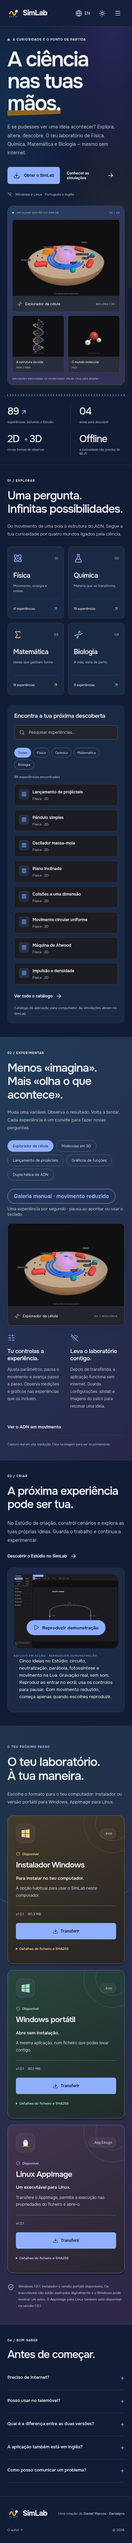
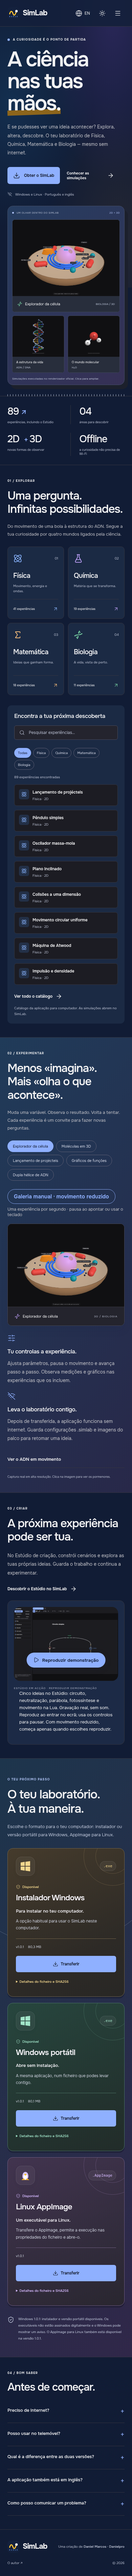
Reflow tablet and narrow mobile layouts and preserve review artifacts

diff --git a/dist/assets/index-CXP6DMzO.css b/dist/assets/index-CXP6DMzO.css
@@ -1,0 +1,1 @@
+@font-face{font-family:Onest Variable;font-style:normal;font-display:swap;font-weight:100 900;src:url(/assets/onest-cyrillic-ext-wght-normal-DOFToQv1.woff2)format("woff2-variations");unicode-range:U+460-52F,U+1C80-1C8A,U+20B4,U+2DE0-2DFF,U+A640-A69F,U+FE2E-FE2F}@font-face{font-family:Onest Variable;font-style:normal;font-display:swap;font-weight:100 900;src:url(/assets/onest-cyrillic-wght-normal-DayYxulF.woff2)format("woff2-variations");unicode-range:U+301,U+400-45F,U+490-491,U+4B0-4B1,U+2116}@font-face{font-family:Onest Variable;font-style:normal;font-display:swap;font-weight:100 900;src:url(/assets/onest-math-wght-normal-Bl4ZGkZl.woff2)format("woff2-variations");unicode-range:U+302-303,U+305,U+307-308,U+310,U+312,U+315,U+31A,U+326-327,U+32C,U+32F-330,U+332-333,U+338,U+33A,U+346,U+34D,U+391-3A1,U+3A3-3A9,U+3B1-3C9,U+3D1,U+3D5-3D6,U+3F0-3F1,U+3F4-3F5,U+2016-2017,U+2034-2038,U+203C,U+2040,U+2043,U+2047,U+2050,U+2057,U+205F,U+2070-2071,U+2074-208E,U+2090-209C,U+20D0-20DC,U+20E1,U+20E5-20EF,U+2100-2112,U+2114-2115,U+2117-2121,U+2123-214F,U+2190,U+2192,U+2194-21AE,U+21B0-21E5,U+21F1-21F2,U+21F4-2211,U+2213-2214,U+2216-22FF,U+2308-230B,U+2310,U+2319,U+231C-2321,U+2336-237A,U+237C,U+2395,U+239B-23B7,U+23D0,U+23DC-23E1,U+2474-2475,U+25AF,U+25B3,U+25B7,U+25BD,U+25C1,U+25CA,U+25CC,U+25FB,U+266D-266F,U+27C0-27FF,U+2900-2AFF,U+2B0E-2B11,U+2B30-2B4C,U+2BFE,U+3030,U+FF5B,U+FF5D,U+1D400-1D7FF,U+1EE??}@font-face{font-family:Onest Variable;font-style:normal;font-display:swap;font-weight:100 900;src:url(/assets/onest-symbols-wght-normal-DxQzqQfC.woff2)format("woff2-variations");unicode-range:U+1-C,U+E-1F,U+7F-9F,U+20DD-20E0,U+20E2-20E4,U+2150-218F,U+2190,U+2192,U+2194-2199,U+21AF,U+21E6-21F0,U+21F3,U+2218-2219,U+2299,U+22C4-22C6,U+2300-243F,U+2440-244A,U+2460-24FF,U+25A0-27BF,U+28??,U+2921-2922,U+2981,U+29BF,U+29EB,U+2B??,U+4DC0-4DFF,U+FFF9-FFFB,U+10140-1018E,U+10190-1019C,U+101A0,U+101D0-101FD,U+102E0-102FB,U+10E60-10E7E,U+1D2C0-1D2D3,U+1D2E0-1D37F,U+1F0??,U+1F100-1F1AD,U+1F1E6-1F1FF,U+1F30D-1F30F,U+1F315,U+1F31C,U+1F31E,U+1F320-1F32C,U+1F336,U+1F378,U+1F37D,U+1F382,U+1F393-1F39F,U+1F3A7-1F3A8,U+1F3AC-1F3AF,U+1F3C2,U+1F3C4-1F3C6,U+1F3CA-1F3CE,U+1F3D4-1F3E0,U+1F3ED,U+1F3F1-1F3F3,U+1F3F5-1F3F7,U+1F408,U+1F415,U+1F41F,U+1F426,U+1F43F,U+1F441-1F442,U+1F444,U+1F446-1F449,U+1F44C-1F44E,U+1F453,U+1F46A,U+1F47D,U+1F4A3,U+1F4B0,U+1F4B3,U+1F4B9,U+1F4BB,U+1F4BF,U+1F4C8-1F4CB,U+1F4D6,U+1F4DA,U+1F4DF,U+1F4E3-1F4E6,U+1F4EA-1F4ED,U+1F4F7,U+1F4F9-1F4FB,U+1F4FD-1F4FE,U+1F503,U+1F507-1F50B,U+1F50D,U+1F512-1F513,U+1F53E-1F54A,U+1F54F-1F5FA,U+1F610,U+1F650-1F67F,U+1F687,U+1F68D,U+1F691,U+1F694,U+1F698,U+1F6AD,U+1F6B2,U+1F6B9-1F6BA,U+1F6BC,U+1F6C6-1F6CF,U+1F6D3-1F6D7,U+1F6E0-1F6EA,U+1F6F0-1F6F3,U+1F6F7-1F6FC,U+1F7??,U+1F800-1F80B,U+1F810-1F847,U+1F850-1F859,U+1F860-1F887,U+1F890-1F8AD,U+1F8B0-1F8BB,U+1F8C0-1F8C1,U+1F900-1F90B,U+1F93B,U+1F946,U+1F984,U+1F996,U+1F9E9,U+1FA00-1FA6F,U+1FA70-1FA7C,U+1FA80-1FA89,U+1FA8F-1FAC6,U+1FACE-1FADC,U+1FADF-1FAE9,U+1FAF0-1FAF8,U+1FB??}@font-face{font-family:Onest Variable;font-style:normal;font-display:swap;font-weight:100 900;src:url(/assets/onest-vietnamese-wght-normal-BBxOatbv.woff2)format("woff2-variations");unicode-range:U+102-103,U+110-111,U+128-129,U+168-169,U+1A0-1A1,U+1AF-1B0,U+300-301,U+303-304,U+308-309,U+323,U+329,U+1EA0-1EF9,U+20AB}@font-face{font-family:Onest Variable;font-style:normal;font-display:swap;font-weight:100 900;src:url(/assets/onest-latin-ext-wght-normal-QAhDxQuo.woff2)format("woff2-variations");unicode-range:U+100-2BA,U+2BD-2C5,U+2C7-2CC,U+2CE-2D7,U+2DD-2FF,U+304,U+308,U+329,U+1D00-1DBF,U+1E00-1E9F,U+1EF2-1EFF,U+2020,U+20A0-20AB,U+20AD-20C0,U+2113,U+2C60-2C7F,U+A720-A7FF}@font-face{font-family:Onest Variable;font-style:normal;font-display:swap;font-weight:100 900;src:url(/assets/onest-latin-wght-normal-Dun_Rd-l.woff2)format("woff2-variations");unicode-range:U+??,U+131,U+152-153,U+2BB-2BC,U+2C6,U+2DA,U+2DC,U+304,U+308,U+329,U+2000-206F,U+20AC,U+2122,U+2191,U+2193,U+2212,U+2215,U+FEFF,U+FFFD}:root{color:#14213d;font-synthesis:none;--ink:#14213d;--muted:#46557a;--blue:#2347c9;--line:#d9e0ee;--sun:#ffc533;background:#f5f7fc;font-family:Onest Variable,Segoe UI,sans-serif}*{box-sizing:border-box}html{scroll-behavior:smooth;scroll-padding-top:110px}body{margin:0}a{color:inherit;text-decoration:none}button,input{font:inherit}button{cursor:pointer}button,a,input,summary{-webkit-tap-highlight-color:transparent}button{color:inherit}button:focus-visible,a:focus-visible,input:focus-visible,summary:focus-visible{outline-offset:5px;outline:3px solid #8250df}button:disabled{cursor:default}svg{stroke-width:1.7px;flex-shrink:0;width:20px;height:20px}img{max-width:100%;display:block}h1,h2,h3,h4,p,figure{margin:0}.wrap{max-width:1280px;margin:auto;padding-left:48px;padding-right:48px}.skip{z-index:100;background:#fff;padding:15px;position:fixed;top:-100px;left:20px}.skip:focus{top:10px}header{border-bottom:1px solid var(--line);z-index:5;justify-content:space-between;align-items:center;gap:24px;max-width:1440px;height:92px;margin:auto;padding:0 48px;display:flex;position:relative}.brand{align-items:center;gap:10px;display:flex}.brand>span{letter-spacing:-1px;font-size:25px;font-weight:720;line-height:1.05}.brand small{letter-spacing:3px;margin-top:5px;font-size:9px;font-weight:550;display:block}nav{gap:32px;font-size:13px;font-weight:550;display:flex}nav a:hover,.text-link:hover{color:var(--blue)}.header-actions{align-items:center;gap:25px;display:flex}.language,.menu{background:0 0;border:0;align-items:center;gap:7px;padding:10px;font-size:12px;display:flex}.menu{display:none}.button{background:var(--blue);color:#fff;border-radius:7px;justify-content:center;align-items:center;gap:12px;padding:17px 22px;font-size:14px;font-weight:600;transition:transform .2s,background .2s;display:inline-flex}.button:hover{background:#1b3aa8;transform:translateY(-2px)}.button.small{padding:12px 16px;font-size:12px}.hero{grid-template-columns:1.05fr 1fr;align-items:center;gap:48px;padding-top:78px;padding-bottom:78px;display:grid}.eyebrow{letter-spacing:1.7px;align-items:center;gap:9px;font-size:10px;font-weight:650;display:flex}.dot{background:var(--blue);border-radius:50%;width:7px;height:7px}h1{letter-spacing:-4px;margin:24px 0;font-size:clamp(50px,5.6vw,80px);font-weight:600;line-height:1.04}h1 span{z-index:0;white-space:nowrap;position:relative}h1 span:after{content:"";z-index:-1;background:var(--sun);height:15px;position:absolute;bottom:6px;left:0;right:0;transform:rotate(-2deg)}.hero-copy>p{color:var(--muted);max-width:450px;font-size:16px;line-height:1.8}.hero-buttons{align-items:center;gap:24px;margin-top:29px;display:flex}.text-link{background:0 0;border:0;align-items:center;gap:9px;padding:0;font-size:12px;font-weight:650;display:inline-flex}.hero-note{color:#5a6889;align-items:center;gap:9px;margin-top:20px;font-size:11px;display:flex}.hero-note svg{width:14px}.science-art{isolation:isolate;background-color:#e8eefb;background-image:linear-gradient(#d9e2f5 1px,#0000 1px),linear-gradient(90deg,#d9e2f5 1px,#0000 1px);background-size:26px 26px;border:1px solid #cad5ed;border-radius:18px;height:440px;position:relative;overflow:hidden;box-shadow:12px 14px #edf1f8}.art-label,.art-footer{letter-spacing:1px;justify-content:space-between;align-items:center;font-size:9px;font-weight:600;display:flex;position:absolute;left:24px;right:24px}.art-label{top:22px}.art-footer{bottom:22px}.art-footer>span:last-child{font-size:26px}.nucleus{z-index:2;background:#14213d;border-radius:50%;place-items:center;width:86px;height:86px;display:grid;position:absolute;top:44%;left:50%;transform:translate(-50%,-50%);box-shadow:0 8px 35px #14213d22}.nucleus svg{color:var(--sun);width:44px;height:44px}.orbit{border:1px solid #6285d8;border-radius:50%;width:330px;height:140px;position:absolute;top:44%;left:50%;transform:translate(-50%,-50%)rotate(-30deg)}.orbit-two{border-color:#97a9d8;width:280px;height:170px;transform:translate(-50%,-50%)rotate(48deg)}.particle{border-radius:50%;width:22px;height:22px;animation:5s ease-in-out infinite float;position:absolute;box-shadow:0 5px 12px #14213d22}.p1{background:#2347c9;top:25%;left:75%}.p2{background:#ffc533;width:30px;height:30px;animation-delay:-2s;top:58%;left:25%}.p3{background:#8250df;width:14px;height:14px;animation-delay:-3s;top:23%;left:28%}.formula{color:#46557a;font-size:12px;position:absolute}.f1{top:15%;left:10%;transform:rotate(-8deg)}.f2{bottom:22%;right:10%;transform:rotate(6deg)}.wave{opacity:.55;width:100%;height:115px;position:absolute;bottom:30px;left:0;overflow:visible}.wave path{stroke:#2347c9;fill:none;stroke-width:1.3px;stroke-dasharray:700;animation:10s linear infinite wave}.stats{border-top:1px solid var(--line);border-bottom:1px solid var(--line);grid-template-columns:repeat(4,1fr);padding-top:27px;padding-bottom:32px;display:grid;position:relative}.stats:before{content:"";background:repeating-linear-gradient(90deg,#b9c4da 0 1px,#0000 1px 8px);height:6px;position:absolute;top:-6px;left:48px;right:48px}.stats>div{border-left:1px solid var(--line);padding-left:26px}.stats>div:first-child{border:0;padding-left:0}.stats strong{letter-spacing:-1.3px;font-size:32px;font-weight:500}.stats strong span{color:var(--blue);margin-left:7px;font-size:23px}.stats p{color:var(--muted);margin-top:7px;font-size:10px}.section{padding-top:100px;padding-bottom:100px}.section-top{justify-content:space-between;align-items:flex-end;gap:40px;margin-bottom:40px;display:flex}h2{letter-spacing:-1.8px;margin-top:18px;font-size:clamp(30px,3.25vw,46px);font-weight:550;line-height:1.15}.section-top>p{max-width:340px;color:var(--muted);font-size:14px;line-height:1.8}.subject-grid{grid-template-columns:repeat(4,1fr);gap:16px;display:grid}.physics{--cat:#2f6fed;--soft:#e3ecfe}.chemistry{--cat:#8250df;--soft:#efe7fd}.maths{--cat:#b45c00;--soft:#fdeeda}.biology{--cat:#087a42;--soft:#def5e9}.subject{border:1px solid var(--line);text-align:left;background:#fff;border-radius:10px;padding:24px;transition:transform .2s,box-shadow .2s}.subject:hover{border-color:var(--cat);transform:translateY(-6px);box-shadow:0 14px 25px #14213d0c}.subject-top{color:var(--cat);justify-content:space-between;align-items:center;display:flex}.subject-top>svg{width:32px;height:32px}.subject-top>span{color:#5a6889;font-size:10px}.subject h3{letter-spacing:-.6px;margin:30px 0 10px;font-size:22px;font-weight:550}.subject p{color:var(--muted);min-height:33px;font-size:11px;line-height:1.5}.subject-bottom{border-top:1px solid var(--line);justify-content:space-between;align-items:center;margin-top:20px;padding-top:18px;font-size:10px;display:flex}.subject-bottom svg{width:16px;color:var(--cat)}.catalogue{background:#edf1f8;border-radius:12px;margin-top:45px;padding:30px}.catalogue-head{justify-content:space-between;align-items:center;gap:20px;display:flex}.catalogue-head h3{letter-spacing:-.4px;font-size:17px;font-weight:550}.search{border:1px solid var(--line);background:#fff;border-radius:6px;align-items:center;gap:10px;min-width:280px;padding:10px 14px;display:flex}.search svg{color:#5a6889;width:16px}.search input{width:100%;min-width:0;color:var(--ink);background:0 0;border:0;font-size:12px}.filters{flex-wrap:wrap;gap:8px;margin:24px 0 15px;display:flex}.filters button{background:0 0;border:1px solid #b9c4da;border-radius:30px;padding:8px 15px;font-size:11px}.filters button[aria-pressed=true]{color:#fff;background:#14213d;border-color:#14213d}#result-count{color:#46557a;margin-bottom:15px;font-size:10px}#results{grid-template-columns:repeat(4,1fr);gap:12px;display:grid}.result{border:1px solid var(--line);background:#fff;border-radius:7px;align-items:flex-start;gap:10px;padding:15px 12px;display:flex}.result-icon{background:var(--soft);width:30px;height:30px;color:var(--cat);border-radius:6px;flex-shrink:0;place-items:center;display:grid}.result-icon svg{width:16px}.result h4{font-size:11px;font-weight:600;line-height:1.5}.result p{color:#5a6889;margin-top:4px;font-size:9px}.result p span{white-space:nowrap}#show-all{margin-top:24px}#show-all[hidden]{display:none}.catalogue-note{color:#5a6889;margin-top:16px;font-size:10px}.empty{grid-column:1/-1;padding:25px;font-size:14px}.experience{border-top:1px solid var(--line);border-bottom:1px solid var(--line);background:#e8edf6;padding:85px 0}.preview-grid{grid-template-columns:1.4fr 1fr;align-items:center;gap:60px;display:grid}.preview-main{background:#f7f9fc;border:1px solid #b9c4da;border-radius:12px;overflow:hidden;transform:rotate(-1deg);box-shadow:0 15px 25px #14213d10}.preview-main>img{object-fit:contain;image-rendering:auto;width:100%;height:320px}.preview-main figcaption{border-top:1px solid var(--line);background:#fff;justify-content:space-between;align-items:center;padding:17px 20px;font-size:11px;display:flex}.preview-main figcaption span:first-child{align-items:center;gap:8px;display:flex}.preview-main figcaption span:last-child{color:#5a6889;letter-spacing:1px;font-size:8px}.preview-main svg{color:#8250df;width:16px}.experience-features article+article{border-top:1px solid #cad3e4;margin-top:30px;padding-top:30px}.experience-features article>svg{color:var(--blue);width:24px;height:24px}.experience-features h3{letter-spacing:-.4px;margin:12px 0;font-size:19px;font-weight:550}.experience-features p{color:var(--muted);font-size:13px;line-height:1.8}.image-note{color:#5a6889;margin-top:20px;font-size:9px}.studio{grid-template-columns:1fr 1fr;align-items:center;gap:70px;display:grid}.studio>div>p{max-width:400px;color:var(--muted);margin-top:24px;font-size:14px;line-height:1.8}.studio .text-link{margin-top:24px}.studio figure{border:1px solid var(--line);background:#fff;border-radius:14px;padding:18px}.studio img{object-fit:contain;background:#f7f9fc;border-radius:6px;width:100%;height:280px}.studio figcaption{letter-spacing:1px;color:var(--muted);margin-top:16px;font-size:8px}.download-section{color:#fff;background:#14213d;position:relative;overflow:hidden}.download-section:before{content:"";pointer-events:none;border:1px solid #ffffff0d;border-radius:50%;width:700px;height:700px;position:absolute;top:-150px;left:-180px}.download-inner{grid-template-columns:1fr 1fr;gap:80px;padding-top:75px;padding-bottom:75px;display:grid;position:relative}.download-section h2{font-size:44px}.download-section p{color:#c6cfe1;margin-top:20px;font-size:12px;line-height:1.8}.release-note{color:#a9b8d5;margin-top:32px;font-size:10px;line-height:1.8}.download-card{background:var(--sun);color:#14213d;border-radius:8px;justify-content:space-between;align-items:center;padding:21px;transition:transform .2s;display:flex}.download-card:hover{transform:translate(4px)}.download-card>span{grid-template-columns:24px 1fr;gap:7px 10px;display:grid}.download-card strong{font-size:14px;font-weight:600}.download-card small{grid-column:2;font-size:10px}.download-card.secondary{color:#fff;background:#24334f;border:1px solid #4d5d79;margin-top:13px}.download-options p{font-size:10px}.download-options .text-link{color:#e3eaff;margin-top:14px;font-size:10px}.faq{grid-template-columns:.8fr 1.2fr;gap:70px;display:grid}.faq h2{font-size:36px}details{border-bottom:1px solid var(--line)}summary{cursor:pointer;justify-content:space-between;gap:20px;padding:22px 0;font-size:14px;font-weight:550;list-style:none;display:flex}summary::-webkit-details-marker{display:none}summary span{color:var(--blue);font-size:23px;font-weight:350;line-height:1}details[open] summary span{transform:rotate(45deg)}details p{color:var(--muted);padding-bottom:24px;font-size:13px;line-height:1.8}details p a{text-decoration:underline}footer{border-top:1px solid var(--line);justify-content:space-between;align-items:center;gap:24px;padding-top:32px;padding-bottom:32px;display:flex}footer p,footer>a:not(.brand),footer>span{color:var(--muted);font-size:10px}footer p a{font-weight:600}footer .brand>span{font-size:22px}@keyframes float{50%{transform:translate(9px,-13px)}}@keyframes wave{50%{transform:translate(-20px)}}@media (width>=1500px){header{max-width:1280px}}@media (width<=1050px){.wrap{padding-left:32px;padding-right:32px}header{padding:0 32px}.hero{gap:30px}.hero-buttons{flex-direction:column;align-items:flex-start;gap:15px}.science-art{height:400px}.subject{padding:18px}#results{grid-template-columns:repeat(2,1fr)}.preview-grid{gap:35px}.studio{gap:40px}.download-inner{gap:45px}.stats p{font-size:9px}}@media (width<=900px){html{scroll-padding-top:25px}.wrap{padding-left:22px;padding-right:22px}header{gap:12px;height:78px;padding:0 22px}.brand>span{font-size:22px}.brand img{width:35px;height:35px}.header-actions{gap:6px}.header-actions .small{display:none}.menu{display:flex}nav{border-bottom:1px solid var(--line);background:#f5f7fc;flex-direction:column;gap:25px;padding:24px;display:none;position:absolute;top:77px;left:0;right:0}.nav-open nav{display:flex}.hero{grid-template-columns:1fr;gap:38px;padding-top:48px;padding-bottom:45px}h1{letter-spacing:-3.2px;margin-top:21px;font-size:62px}.eyebrow{letter-spacing:1.1px;font-size:9px}.hero-copy>p{max-width:500px;font-size:14px}.hero-buttons{flex-direction:row;align-items:center;gap:20px}.hero-buttons .text-link{max-width:140px;font-size:11px}.button{padding:15px 17px;font-size:12px}.hero-note{font-size:10px}.science-art{width:100%;max-width:500px;height:350px;margin:auto;box-shadow:7px 8px #edf1f8}.stats{grid-template-columns:1fr 1fr;gap:25px;padding-top:26px;padding-bottom:26px}.stats>div:nth-child(3){border:0;padding-left:0}.stats strong{font-size:29px}.stats p{font-size:9px}.stats:before{left:22px;right:22px}.section{padding-top:60px;padding-bottom:60px}.section-top{margin-bottom:28px;display:block}h2{letter-spacing:-1.3px;font-size:34px}.section-top>p{max-width:500px;margin-top:20px;font-size:13px}.subject-grid{grid-template-columns:1fr 1fr;gap:12px}.subject h3{margin-top:22px;font-size:20px}.subject p{min-height:30px;font-size:10px}.subject-bottom{margin-top:16px;font-size:9px}.subject{padding:18px 16px}.subject-top svg{width:27px}.catalogue{margin-top:30px;padding:20px}.catalogue-head{display:block}.catalogue-head h3{font-size:17px;line-height:1.4}.search{min-width:0;margin-top:16px}.filters{gap:6px}.filters button{padding:7px 10px;font-size:10px}#results{grid-template-columns:1fr}.result{padding:13px}.result h4{font-size:12px}.result p{font-size:10px}.catalogue-note{line-height:1.7}.experience{padding:60px 0}.preview-grid{grid-template-columns:1fr;gap:35px}.preview-main>img{height:250px}.experience-features{grid-template-columns:1fr 1fr;gap:25px;display:grid}.experience-features article+article{border:0;margin:0;padding:0}.experience-features h3{font-size:17px}.experience-features p{font-size:12px}.studio{grid-template-columns:1fr;gap:30px}.studio img{height:240px}.download-inner{grid-template-columns:1fr;gap:30px;padding-top:50px;padding-bottom:50px}.download-section h2{font-size:38px}.release-note{margin-top:20px}.download-card strong{font-size:13px}.faq{grid-template-columns:1fr;gap:18px}.faq h2{font-size:32px}summary{font-size:13px}footer{flex-wrap:wrap;gap:24px}footer p{width:calc(100% - 150px);line-height:1.8}footer>span{margin-left:auto}}@media (width<=370px){h1{font-size:53px}.hero-buttons{gap:12px}.hero-buttons .text-link{max-width:110px}.subject{padding:15px 12px}.subject h3{font-size:18px}.experience-features{grid-template-columns:1fr}.art-label,.art-footer{font-size:7px}}@media (prefers-reduced-motion:reduce){html{scroll-behavior:auto}*,:before,:after{transition:none!important;animation:none!important}}.download-card[aria-disabled=true]{cursor:default}.download-card[aria-disabled=true]:hover{transform:none}.checksums{border-color:#4d5d79;margin-top:10px}.checksums summary{padding:15px 0;font-size:10px}.checksums p{margin:0}.checksums code{overflow-wrap:anywhere;color:#e3eaff;font-size:9px}.gallery-controls{flex-wrap:wrap;gap:8px;margin-bottom:25px;display:flex}.gallery-controls button{background:0 0;border:1px solid #b9c4da;border-radius:30px;padding:9px 15px;font-size:11px}.gallery-controls button[aria-pressed=true]{color:#fff;background:#14213d;border-color:#14213d}.preview-main img{transition:opacity .2s}.hero-lab{color:#f2f2f3;background:#101012;border:1px solid #2c2c31;border-radius:16px;padding:18px;animation:.7s ease-out both lab-arrive;overflow:hidden;transform:rotate(1deg);box-shadow:16px 18px #e8edf6}.lab-heading{letter-spacing:1.3px;color:#c0c0c6;align-items:center;gap:8px;margin:2px 0 15px;font-size:8px;display:flex}.lab-heading>span:last-child{color:#ffd24d;white-space:nowrap;margin-left:auto}.live-dot{background:#ffd24d;border-radius:50%;width:5px;height:5px}.lab-feature{background:#101012;border:1px solid #2c2c31;border-radius:8px;overflow:hidden}.lab-feature>img{object-fit:contain;width:100%;height:258px}.lab-feature figcaption{background:#1c1c1f;justify-content:space-between;align-items:center;gap:12px;padding:13px 14px;font-size:11px;display:flex}.lab-feature figcaption>span:first-child{align-items:center;gap:8px;display:flex}.lab-feature figcaption svg{color:#4fd08a;width:15px}.lab-feature figcaption>span:last-child{color:#9a9aa3;font-size:8px}.lab-pair{grid-template-columns:1fr 1fr;gap:10px;margin-top:10px;display:grid}.lab-pair figure{background:#101012;border:1px solid #2c2c31;border-radius:7px;transition:transform .25s;overflow:hidden}.lab-pair figure:hover{transform:translateY(-3px)}.lab-pair img{object-fit:contain;width:100%;height:130px}.lab-pair figcaption{background:#1c1c1f;justify-content:space-between;gap:10px;padding:10px 11px;font-size:9px;display:flex}.lab-pair figcaption span{color:#9a9aa3;font-size:8px}.lab-caption{color:#9a9aa3;letter-spacing:.2px;margin:12px 0 0;font-size:8px}.hero-note{max-width:440px}.download-hub{padding-top:80px;padding-bottom:65px;position:relative}.download-heading{justify-content:space-between;align-items:flex-end;gap:45px;margin-bottom:40px;display:flex}.download-heading>p{max-width:390px;font-size:13px}.download-platforms{grid-template-columns:repeat(3,minmax(0,1fr));align-items:start;gap:18px;display:grid}.platform-card{color:#14213d;background:#f5f7fc;border:1px solid #d9e0ee;border-radius:12px;min-width:0;padding:26px}.platform-card.setup{border-top:4px solid #ffc533;padding-top:23px}.platform-card.portable{border-top:4px solid #8fb0ff;padding-top:23px}.platform-card.appimage{border-top:4px solid #b392ff;padding-top:23px}.platform-top{justify-content:space-between;align-items:center;margin-bottom:24px;display:flex}.platform-icon{color:#2347c9;background:#e3ecfe;border-radius:10px;place-items:center;width:46px;height:46px;display:grid}.appimage .platform-icon{color:#8250df;background:#efe7fd}.format-tag{color:#46557a;background:#e8edf6;border-radius:5px;padding:6px 8px;font-family:monospace;font-size:10px}.availability{color:#46557a;align-items:center;gap:6px;margin-bottom:12px;font-size:10px;font-weight:550;display:flex}.availability svg{width:13px;height:13px}.platform-card h3{letter-spacing:-.7px;font-size:22px;font-weight:600;line-height:1.2}.platform-card .download-lead{color:#14213d;margin-top:13px;font-size:13px;font-weight:550}.platform-card .download-detail{color:#46557a;min-height:61px;margin-top:8px;font-size:12px;line-height:1.7}.file-meta{color:#46557a;border-top:1px solid #d9e0ee;align-items:center;gap:12px;min-height:30px;margin-top:16px;padding-top:17px;font-size:10px;display:flex}.download-action{color:#fff;text-align:center;background:#2347c9;border:0;border-radius:6px;justify-content:center;align-items:center;gap:8px;width:100%;min-height:48px;margin-top:20px;padding:11px 12px;font-size:11px;font-weight:600;line-height:1.5;display:flex}.download-action svg{width:16px;height:16px}.download-action:disabled{color:#46557a;cursor:not-allowed;background:#e8edf6;border:1px solid #b9c4da}.file-verification{border-bottom:0;margin-top:8px}.file-verification summary{color:#2347c9;padding:13px 0;font-size:10px;list-style:inside disclosure-closed;display:list-item}.file-verification[open] summary{list-style-type:disclosure-open}.platform-card .file-verification p{color:#46557a;overflow-wrap:anywhere;margin:0;padding-bottom:8px;font-size:10px}.file-verification code{overflow-wrap:anywhere;background:#e8edf6;border-radius:5px;padding:8px;font-size:9px;line-height:1.7;display:block}.file-verification small{color:#46557a;margin-top:10px;font-size:9px;line-height:1.7;display:block}.platform-card .linux-note{color:#46557a;margin-top:17px;font-size:9px;line-height:1.7}.download-footnote{align-items:flex-start;gap:12px;max-width:950px;margin-top:25px;display:flex}.download-footnote>svg{color:#a9b8d5;margin-top:2px}.download-footnote>p{color:#c6cfe1;margin:0;font-size:10px;line-height:1.9}@keyframes lab-arrive{0%{opacity:1;transform:translateY(16px)rotate(1deg)}to{opacity:1;transform:translateY(0)rotate(1deg)}}@media (width<=1050px){.platform-card{padding:20px}.platform-card.setup,.platform-card.portable,.platform-card.appimage{padding-top:17px}.platform-card h3{font-size:19px}.hero-lab{padding:13px}.lab-pair figcaption{flex-direction:column;gap:4px}.download-action{font-size:10px}}@media (width<=900px){.hero-lab{width:100%;max-width:500px;margin:auto;animation:none;transform:none;box-shadow:7px 9px #e8edf6}.lab-feature>img{height:220px}.lab-pair img{height:120px}.download-hub{padding-top:55px;padding-bottom:45px}.download-heading{margin-bottom:28px;display:block}.download-heading>p{max-width:500px;margin-top:20px}.download-platforms{grid-template-columns:1fr;gap:16px}.platform-card{padding:23px}.platform-card.setup,.platform-card.portable,.platform-card.appimage{padding-top:20px}.platform-top{margin-bottom:18px}.platform-card h3{font-size:23px}.platform-card .download-detail{min-height:0}.file-meta{margin-top:20px}.download-action{font-size:12px}.download-heading h2{font-size:36px}.lab-heading{letter-spacing:.7px;font-size:7px}}@media (prefers-reduced-motion:reduce){.hero-lab{animation:none}}.hero-lab{color:#14213d;background:linear-gradient(145deg,#e8edf9,#f5f7fc 65%,#e5f2ed);border-color:#c9d5e8;box-shadow:12px 15px #e8edf6,0 20px 50px #14213d0b}.lab-heading,.lab-caption{color:#46557a}.lab-heading>span:last-child{color:#2347c9}.live-dot{background:#2347c9}.lab-feature,.lab-pair figure{background:#f7f9fc;border-color:#d9e0ee}.lab-feature figcaption,.lab-pair figcaption{background:#fff}.lab-feature figcaption>span:last-child,.lab-pair figcaption span{color:#5a6889}.lab-feature figcaption svg{color:#087a42}.preview-main>img{background:#f7f9fc}.download-section{color:#14213d;background:#edf1f8;border-top:1px solid #d9e0ee;border-bottom:1px solid #d9e0ee}.download-section:before{border-color:#b9c4da55}.download-section .eyebrow{color:#2347c9}.download-heading>p,.download-footnote>p,.download-footnote>svg{color:#46557a}.download-platforms{align-items:stretch;gap:22px}.platform-card{isolation:isolate;--card-accent:#8b6500;--card-line:#d8bf78;--card-tint:#fff5d8;background:linear-gradient(155deg,#fff2c9,#fff9e9 60%,#fffdf6);border-radius:20px;transition:transform .25s,box-shadow .25s;position:relative;overflow:hidden;box-shadow:0 5px #d9e0ee66;border:1px solid #e5d7ad!important;padding:27px!important}.platform-card.portable{--card-accent:#12664d;--card-line:#a4cdbb;--card-tint:#def3e8;background:linear-gradient(155deg,#d9f0e5,#eff9f2 60%,#f9fcfa);border-color:#b9daca!important}.platform-card.appimage{--card-accent:#664498;--card-line:#c8b6e1;--card-tint:#eee4fa;background:linear-gradient(155deg,#e8dff8,#f5effc 60%,#fdfaff);border-color:#d4c6e7!important}.platform-card:before{content:"";z-index:-1;border:1px solid var(--card-line);opacity:.65;border-radius:50%;width:170px;height:170px;transition:transform .5s;position:absolute;top:-63px;right:-52px}.platform-card:after{content:"";z-index:-1;border:1px solid var(--card-line);opacity:.65;border-radius:50%;width:100px;height:100px;transition:transform .5s;position:absolute;top:-28px;right:-17px}.platform-top{margin-bottom:26px}.platform-icon{border:1px solid #fff;border-radius:16px;width:56px;height:56px;transition:transform .3s;transform:rotate(-5deg);box-shadow:0 4px 14px #14213d08;color:var(--card-accent)!important;background:#ffffffb8!important}.platform-icon svg{width:27px;height:27px}.format-tag{color:var(--card-accent);background:#ffffffa8;border:1px solid #fff;border-radius:20px;padding:7px 10px;font-size:11px}.availability{color:var(--card-accent);font-size:10px}.file-meta{border-color:var(--card-line)}.download-action:disabled{color:#46557a;border:1px dashed var(--card-line);box-shadow:none;background:#fff8}.file-verification summary{color:var(--card-accent)}.file-verification code{background:#fff9}.platform-card .download-detail{min-height:61px}.platform-card .linux-note{font-size:10px}.download-footnote{padding-top:4px}@media (hover:hover) and (prefers-reduced-motion:no-preference){.platform-card:hover,.platform-card:focus-within{transform:translateY(-5px);box-shadow:0 14px 28px #14213d12}.platform-card:hover:before{transform:translate(-8px,8px)}.platform-card:hover:after{transform:translate(-4px,4px)}.platform-card:hover .platform-icon{transform:rotate(0)translateY(-2px)}}@media (prefers-reduced-motion:no-preference){.platform-card.reveal-card{animation:.55s both card-arrive}.platform-card.portable.reveal-card{animation-delay:.1s}.platform-card.appimage.reveal-card{animation-delay:.2s}}@keyframes card-arrive{0%{opacity:1;transform:translateY(14px)}to{opacity:1;transform:translateY(0)}}@media (width<=900px){.platform-card{border-radius:16px;padding:24px!important}.platform-card .download-detail{min-height:0}.hero-lab{box-shadow:7px 9px #e8edf6}.download-platforms{gap:18px}}@media (prefers-reduced-motion:reduce){.platform-card,.platform-card:before,.platform-card:after,.platform-icon{transition:none!important;animation:none!important;transform:none!important}}:root{--lightningcss-light:initial;--lightningcss-dark: ;color-scheme:light}:root[data-theme=dark]{--lightningcss-light: ;--lightningcss-dark:initial;color-scheme:dark;--ink:#f2f2f3;--muted:#c0c0c6;--blue:#8fb0ff;--line:#363640;--sun:#ffd24d;color:#f2f2f3;background:#101014}[data-theme=dark] .button{color:#111725;background:#8fb0ff}[data-theme=dark] .button:hover{background:#adc6ff}[data-theme=dark] h1 span:after{background:#8d651b}[data-theme=dark] header,[data-theme=dark] nav{background:#101014}[data-theme=dark] .hero-note,[data-theme=dark] .stats p,[data-theme=dark] .subject-top>span,[data-theme=dark] .subject p,[data-theme=dark] .catalogue-note,[data-theme=dark] #result-count,[data-theme=dark] .result p,[data-theme=dark] .image-note,[data-theme=dark] footer p,[data-theme=dark] footer>a:not(.brand),[data-theme=dark] footer>span{color:#b9bfd1}[data-theme=dark] .subject,[data-theme=dark] .result,[data-theme=dark] .studio figure{background:#1c1c23;border-color:#363640}[data-theme=dark] .physics{--cat:#8ab5ff;--soft:#233047}[data-theme=dark] .chemistry{--cat:#c3a4ff;--soft:#342841}[data-theme=dark] .maths{--cat:#ffc17d;--soft:#3e3023}[data-theme=dark] .biology{--cat:#7bd8a7;--soft:#213b2e}[data-theme=dark] .catalogue{background:#191921}[data-theme=dark] .search{background:#24242e;border-color:#4c4c5d}[data-theme=dark] .search input{color:#f2f2f3}[data-theme=dark] .search input::placeholder,[data-theme=dark] .search svg{color:#b9bfd1}[data-theme=dark] .filters button,[data-theme=dark] .gallery-controls button{color:#d5d9e7;border-color:#626277}[data-theme=dark] .filters button[aria-pressed=true],[data-theme=dark] .gallery-controls button[aria-pressed=true]{color:#111725;background:#8fb0ff;border-color:#8fb0ff}[data-theme=dark] .experience-features article+article{border-color:#363640}[data-theme=dark] .preview-main{background:#101012;border-color:#484855}[data-theme=dark] .preview-main>img,[data-theme=dark] .studio img{background:#101012}[data-theme=dark] .preview-main figcaption{background:#24242d;border-color:#363640}[data-theme=dark] .preview-main figcaption span:last-child,[data-theme=dark] .studio figcaption{color:#b9bfd1}[data-theme=dark] .preview-main svg{color:#c3a4ff}[data-theme=dark] .hero-lab{color:#f2f2f3;background:linear-gradient(145deg,#262c3a,#1b1e28 65%,#24372e);border-color:#465069;box-shadow:10px 12px #1c202c}[data-theme=dark] .lab-heading,[data-theme=dark] .lab-caption{color:#bdc5d8}[data-theme=dark] .lab-heading>span:last-child{color:#b7cbff}[data-theme=dark] .live-dot{background:#b7cbff}[data-theme=dark] .lab-feature,[data-theme=dark] .lab-pair figure{background:#101012;border-color:#3e4658}[data-theme=dark] .lab-feature figcaption,[data-theme=dark] .lab-pair figcaption{background:#282e3c}[data-theme=dark] .lab-feature figcaption>span:last-child,[data-theme=dark] .lab-pair figcaption span{color:#bdc5d8}[data-theme=dark] .lab-feature figcaption svg{color:#7bd8a7}[data-theme=dark] .download-section{color:#f2f2f3;background:#171a24;border-color:#363640}[data-theme=dark] .download-section .eyebrow{color:#b7cbff}[data-theme=dark] .download-heading>p,[data-theme=dark] .download-footnote>p,[data-theme=dark] .download-footnote>svg{color:#c0c8db}[data-theme=dark] .platform-card{--card-accent:#f3d78e;--card-line:#766649;color:#fff6e3;background:linear-gradient(155deg,#453b2c,#2d2a26 70%,#282725);box-shadow:0 5px #0d101855;border-color:#766649!important}[data-theme=dark] .platform-card.portable{--card-accent:#a1e4c8;--card-line:#4d7667;background:linear-gradient(155deg,#27463e,#23332f 70%,#222c29);border-color:#4d7667!important}[data-theme=dark] .platform-card.appimage{--card-accent:#d6baff;--card-line:#736085;background:linear-gradient(155deg,#42344f,#302b3a 70%,#29262f);border-color:#736085!important}[data-theme=dark] .platform-icon{border-color:#ffffff19;background:#ffffff0c!important}[data-theme=dark] .format-tag{background:#ffffff0d;border-color:#ffffff19}[data-theme=dark] .platform-card h3,[data-theme=dark] .platform-card .download-lead{color:#f5f3f8}[data-theme=dark] .platform-card .download-detail,[data-theme=dark] .file-meta,[data-theme=dark] .platform-card .linux-note,[data-theme=dark] .platform-card .file-verification p,[data-theme=dark] .file-verification small{color:#cdd1de}[data-theme=dark] .download-action:disabled{color:#cdd1de;background:#ffffff08}[data-theme=dark] .download-action:not(:disabled){color:#111725;background:#8fb0ff}[data-theme=dark] .file-verification code{color:#f2f2f3;background:#0002}[data-theme=dark] .skip{color:#fff;background:#24242e}.capture-link{cursor:zoom-in;display:block}.capture-link:focus-visible{outline:3px solid var(--blue);outline-offset:-3px}.lab-feature .capture-link img,.preview-main .capture-link img{object-fit:contain;width:100%;height:auto;display:block}.studio video{aspect-ratio:1256/887;background:var(--paper);border-radius:18px;width:100%;height:auto;display:block}.demo-description{padding:0 16px 16px;font-size:.82rem;line-height:1.6}.motion-demo{max-width:800px;margin-top:24px}.motion-demo summary{cursor:pointer;padding:16px 0;font-weight:600}.motion-demo video{aspect-ratio:1256/887;border-radius:16px;width:100%;display:block}.motion-demo p{font-size:.85rem}.video-player{position:relative}.demo-play{background:var(--blue);color:#fff;font:inherit;cursor:pointer;white-space:nowrap;border:0;border-radius:999px;padding:13px 20px;font-size:.85rem;font-weight:650;position:absolute;bottom:18%;left:50%;transform:translate(-50%);box-shadow:0 5px 20px #14213d22}[data-theme=dark] .demo-play{color:#14213d}.demo-play[hidden]{display:none}.demo-play svg{vertical-align:-3px;width:17px;height:17px;margin-right:5px}[data-theme=dark] body{background-color:#111c35;background-image:radial-gradient(at 85% 5%,#49358570,#0000 44%),radial-gradient(at 8% 35%,#174b7766,#0000 48%),radial-gradient(at 90% 82%,#6e502b33,#0000 42%),none;background-position:0 0,0 0,0 0,0 0;background-repeat:repeat,repeat,repeat,repeat;background-size:auto,auto,auto,auto;background-attachment:fixed;background-origin:padding-box,padding-box,padding-box,padding-box;background-clip:border-box,border-box,border-box,border-box}[data-theme=dark] header{background:#14203bea}[data-theme=dark] .experience{background:linear-gradient(130deg,#203b59,#282849)}[data-theme=dark] .download-section{background:linear-gradient(130deg,#1d354c,#302749)}[data-theme=dark] .hero-lab{background:linear-gradient(140deg,#263d60,#363055)}[data-theme=dark] .preview-main,[data-theme=dark] .studio figure{background:#1c2a46}.gallery-playback{flex-wrap:wrap;align-items:center;gap:16px;margin:18px 0;display:flex}.gallery-playback button{border:1px solid var(--blue);color:var(--blue);font:inherit;cursor:pointer;background:0 0;border-radius:999px;padding:10px 18px;font-weight:650}.gallery-playback button:disabled{cursor:default}.gallery-playback span{color:var(--muted);font-size:.78rem}.os-icon{width:32px;height:32px}.hero{gap:clamp(24px,4vw,48px);padding-block:clamp(32px,5vh,64px)}.section{padding-block:clamp(40px,7vh,72px)}.experience{padding-block:clamp(36px,6vh,64px)}.section-top{gap:24px;margin-bottom:24px}.studio{gap:clamp(24px,4vw,52px)}.preview-grid{gap:clamp(24px,4vw,48px)}.preview-main{transform:none}@media (width>=900px){.lab-feature .capture-link img{max-height:min(32vh,300px)}.preview-main .capture-link img{height:clamp(240px,40vh,360px)}.studio video{object-fit:contain;max-height:min(46vh,400px)}.studio figure{padding:14px}}@media (width<=900px){.hero{padding-block:32px}.section,.experience{padding-block:40px}.gallery-playback{gap:8px}.gallery-playback span{flex-basis:100%}}[data-theme=dark] .subject,[data-theme=dark] .catalogue{background:#1b2a44}@media (width>=901px){[data-theme=dark] nav{background:0 0}}@media (width>=761px) and (width<=900px){.hero-lab{width:100%;max-width:620px;margin-inline:auto}.hero-copy{max-width:680px}.studio figure{width:100%;max-width:720px;margin-inline:auto}}@media (width<=540px){.experience-features{grid-template-columns:1fr;gap:20px}.experience-features p{font-size:14px}}.platform-icon .os-icon{width:32px;height:32px}

diff --git a/style.css b/style.css
@@ -945,7 +945,7 @@ footer .brand > span {
     font-size: 9px;
   }
 }
-@media (max-width: 760px) {
+@media (max-width: 900px) {
   html {
     scroll-padding-top: 25px;
   }
@@ -1624,7 +1624,7 @@ footer .brand > span {
     font-size: 10px;
   }
 }
-@media (max-width: 760px) {
+@media (max-width: 900px) {
   .hero-lab {
     transform: none;
     box-shadow: 7px 9px 0 #e8edf6;
@@ -1899,7 +1899,7 @@ footer .brand > span {
     transform: translateY(0);
   }
 }
-@media (max-width: 760px) {
+@media (max-width: 900px) {
   .platform-card {
     padding: 24px !important;
     border-radius: 16px;
@@ -2313,7 +2313,7 @@ footer .brand > span {
     padding: 14px;
   }
 }
-@media (max-width: 760px) {
+@media (max-width: 900px) {
   .hero {
     padding-block: 32px;
   }
@@ -2332,8 +2332,37 @@ footer .brand > span {
 [data-theme="dark"] .catalogue {
   background: #1b2a44;
 }
-@media (min-width: 761px) {
+@media (min-width: 901px) {
   [data-theme="dark"] nav {
     background: transparent;
   }
+}
+
+@media (min-width: 761px) and (max-width: 900px) {
+  .hero-lab {
+    width: 100%;
+    max-width: 620px;
+    margin-inline: auto;
+  }
+  .hero-copy {
+    max-width: 680px;
+  }
+  .studio figure {
+    width: 100%;
+    max-width: 720px;
+    margin-inline: auto;
+  }
+}
+@media (max-width: 540px) {
+  .experience-features {
+    grid-template-columns: 1fr;
+    gap: 20px;
+  }
+  .experience-features p {
+    font-size: 14px;
+  }
+}
+.platform-icon .os-icon {
+  width: 32px;
+  height: 32px;
 }

diff --git a/dist/index.html b/dist/index.html
@@ -18,8 +18,8 @@
     />
     <meta property="og:type" content="website" />
     <meta property="og:url" content="https://simlab.danielpro.dev/" />
-    <script type="module" crossorigin src="/assets/index-CJzYbYzM.js"></script>
-    <link rel="stylesheet" crossorigin href="/assets/index-C7RE19qD.css">
+    <script type="module" crossorigin src="/assets/index-C-_xRbwc.js"></script>
+    <link rel="stylesheet" crossorigin href="/assets/index-CXP6DMzO.css">
   </head>
   <body>
     <div id="app"></div>

diff --git a/tests/site.spec.js b/tests/site.spec.js
@@ -20,7 +20,7 @@ for (const width of [320, 390, 768, 1440]) {
         .poll(() => img.evaluate((i) => i.complete && i.naturalWidth > 0))
         .toBe(true);
     }
-    if (width < 761) {
+    if (width <= 900) {
       for (let i = 0; i < 2; i++) {
         await page.locator(".menu").click();
         await expect(page.locator("nav")).toBeVisible();

diff --git a/docs/VERIFICATION.md b/docs/VERIFICATION.md
@@ -78,3 +78,7 @@ Re-recorded the official Studio renderer at the previously documented source com
 Replaced download decorations with flat Windows/Windows/Linux SVG symbols; downloads.json is byte-for-byte unchanged. Dark mode uses navy/blue/violet gradients with an amber accent inspired by the mark. Reduced section spacing and responsive media heights preserve intrinsic proportions without imposing fixed viewport-height containers. At 1366×768 in all four combinations: hero 632 px, Studio section 617 px, video 353 px and gallery image frame 364 px. A 683×384 viewport (200%-zoom equivalent available layout area) has no horizontal overflow. Small screens continue to stack naturally.
 
 Validation: lint/build; 15 existing tests passed; the new carousel/autoplay test passed after fixing offscreen resume. Six affected theme/media tests re-run successfully after that fix. Real frame contact sheet confirms all five Studio examples. Desktop/mobile screenshots refreshed for all four combinations, plus gallery/download/Studio views. Library reference metadata and extracted descriptions were readable; raw reference pixels were not returned through the available read route. No deployment or merge for this review revision.
+
+Tablet/mobile follow-up: responsive stacking and compact navigation now begin at 900 px. Narrow-phone explanatory blocks stack into one column with 14 px body text. Rebuilt dist and refreshed desktop/mobile captures; tablet captures added at 820 px. Eight focused responsive/theme/accessibility checks passed after this adjustment (320/390/768/1440 px plus PT/EN and light/dark).
+
+Delivery blocker: automated approval review rejected creation of an external draft PR in danielcodemoz/simlab-site, stating that website edits did not explicitly authorise opening/publishing a PR to that repository. After checking trusted history, the subsequent attempt was interrupted; a read-only check confirmed there are no open PRs. No workaround or further PR attempt is being made. The initial revision 392e06c was pushed before that rejection; the tablet follow-up is retained locally pending resolved authorisation. No merge/publication.

diff --git a/HANDOFF.md b/HANDOFF.md
@@ -17,3 +17,5 @@
 2026-11-17 — `review/gallery-accessible-name`: reproduced PR #4 review finding 4602143941 in PT and EN: selecting molecules retained the cell link name. Updates link aria-label alongside image alt/destination. Two regression cases fail before and pass after; all three focused gallery tests, lint and build pass. dist updated. Draft only; no merge authorised. Linux remains available as confirmed by Daniel.
 
 2026-11-17 — `review/lively-gallery-studio`: requested automatic real-image gallery, five-example actual Studio recording with visible-only muted autoplay/reduced-motion support, flat OS icons, navy/violet/blue dark gradient and tighter responsive composition. Windows/Linux download metadata unchanged. Review PR only; no merge until approval. See docs/VERIFICATION.md and refreshed docs/previews/themes/.
+
+Delivery status: draft PR creation was denied by automatic approval review (explicit external PR authorisation questioned); following interrupted attempt produced no open PR. Stop external PR retries until resolved. Initial 392e06c push succeeded before denial. Final tablet/mobile changes and screenshots remain local, tested. Do not describe this revision as published or merged.
